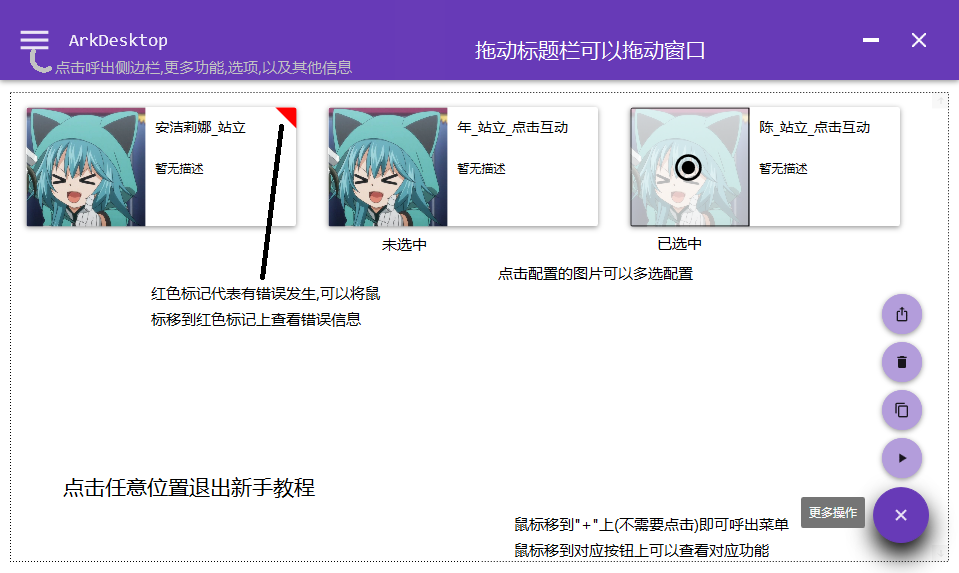
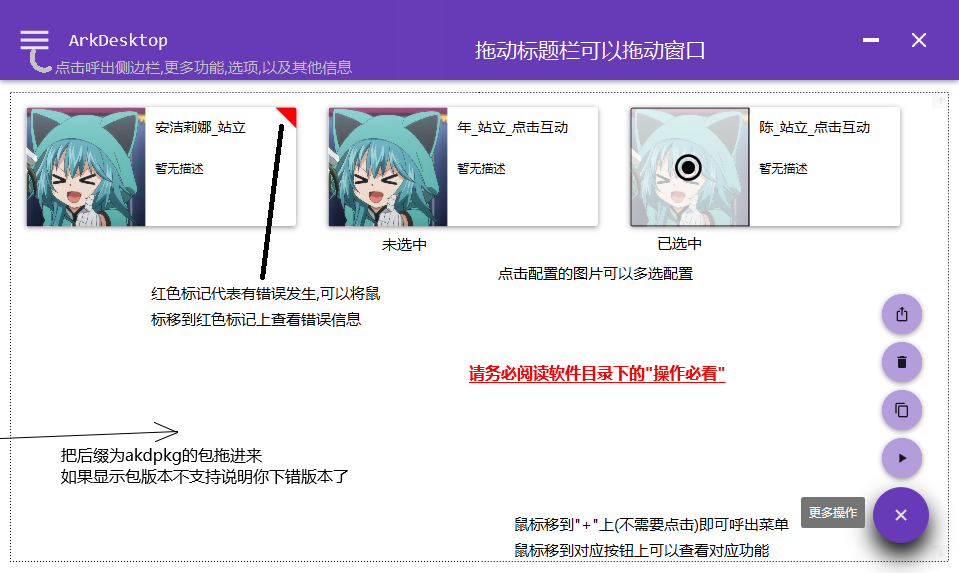
添加第一次使用提示

Changed region(s): [[0.0, 0.7417, 0.3629, 0.8901], [0.4838, 0.623, 0.756, 0.6824]]

diff --git a/ArkDesktopHelperWPF/MainWindow.xaml.cs b/ArkDesktopHelperWPF/MainWindow.xaml.cs
@@ -65,6 +65,7 @@ namespace ArkDesktopHelperWPF
 
         public MainWindow()
         {
+            bool firstUse = Directory.Exists(System.IO.Path.Combine(AppDomain.CurrentDomain.BaseDirectory, "configs")) == false;
             manager = new ConfigManager(AppDomain.CurrentDomain.BaseDirectory);
             manager.ScanPlugins();
             manager.ScanConfigs();
@@ -74,6 +75,7 @@ namespace ArkDesktopHelperWPF
                 InitializeComponent();
                 drawerItemsListBox.ItemsSource = DrawerItems;
                 drawerItemsListBox.SelectedIndex = 0;
+                if (firstUse) MainSnackbar.MessageQueue.Enqueue("第一次使用本软件?请阅读软件目录下的操作说明和界面介绍");
                 if (File.Exists("AutoUpdate.flag"))
                 {
                     MainSnackbar.MessageQueue.Enqueue("正在检查更新...");
